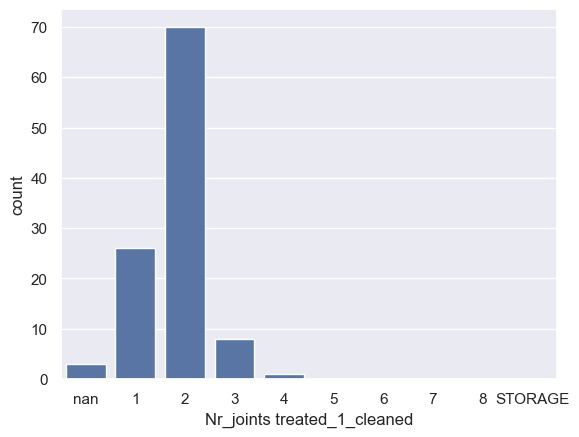
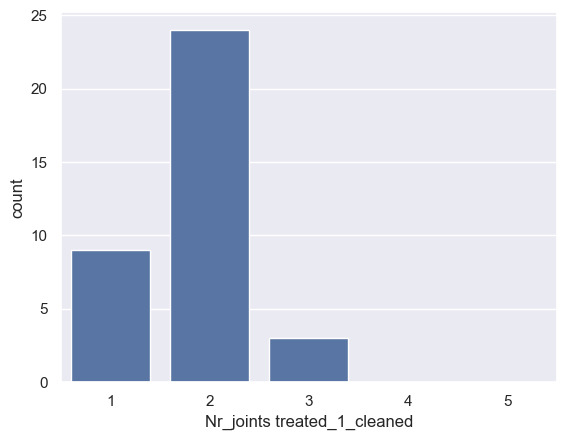
Do some fixes

diff --git a/animacel/anicura_data.html b/animacel/anicura_data.html
@@ -676,28 +676,19 @@ Figure&nbsp;7: Distribution of indications before first application
 <div class="sourceCode cell-code" id="cb19"><pre class="sourceCode python code-with-copy"><code class="sourceCode python"><span id="cb19-1"><a href="#cb19-1" aria-hidden="true" tabindex="-1"></a><span class="co">### Counts of numbers of joints treated in first tratement</span></span></code><button title="Copy to Clipboard" class="code-copy-button"><i class="bi"></i></button></pre></div>
 </details>
 </div>
-<div id="b0e92f7e-1079-445b-88d7-7ca9221d6196" class="cell" data-execution_count="17">
-<details class="code-fold">
-<summary>Code</summary>
-<div class="sourceCode cell-code" id="cb20"><pre class="sourceCode python code-with-copy"><code class="sourceCode python"><span id="cb20-1"><a href="#cb20-1" aria-hidden="true" tabindex="-1"></a>data[<span class="st">"Nr_joints treated_1_cleaned"</span>].unique()</span></code><button title="Copy to Clipboard" class="code-copy-button"><i class="bi"></i></button></pre></div>
-</details>
-<div class="cell-output cell-output-display" data-execution_count="17">
-<pre><code>array([2, nan, 1, 3, 4], dtype=object)</code></pre>
-</div>
-</div>
 <div id="5ac92fa2-0c2b-4066-831b-c2deb47b1c6b" class="cell" data-execution_count="18">
 <details class="code-fold">
 <summary>Code</summary>
-<div class="sourceCode cell-code" id="cb22"><pre class="sourceCode python code-with-copy"><code class="sourceCode python"><span id="cb22-1"><a href="#cb22-1" aria-hidden="true" tabindex="-1"></a><span class="im">import</span> seaborn <span class="im">as</span> sns</span>
-<span id="cb22-2"><a href="#cb22-2" aria-hidden="true" tabindex="-1"></a>data[<span class="st">"Nr_joints treated_1_cleaned"</span>] <span class="op">=</span> data[<span class="st">"Nr_joints treated_1_cleaned"</span>].astype(<span class="bu">str</span>)</span>
-<span id="cb22-3"><a href="#cb22-3" aria-hidden="true" tabindex="-1"></a>data[<span class="st">"Nr_joints treated_1_cleaned"</span>] <span class="op">=</span> data[<span class="st">"Nr_joints treated_1_cleaned"</span>].<span class="bu">str</span>.replace(<span class="st">"?"</span>, <span class="st">""</span>, regex<span class="op">=</span><span class="va">False</span>)</span>
-<span id="cb22-4"><a href="#cb22-4" aria-hidden="true" tabindex="-1"></a>sns.<span class="bu">set</span>(style<span class="op">=</span><span class="st">"darkgrid"</span>)</span>
-<span id="cb22-5"><a href="#cb22-5" aria-hidden="true" tabindex="-1"></a>ax <span class="op">=</span> sns.countplot(x<span class="op">=</span><span class="st">"Nr_joints treated_1_cleaned"</span>, data<span class="op">=</span>data, order<span class="op">=</span> [<span class="st">"nan"</span>,<span class="st">"1"</span>, <span class="st">"2"</span>, <span class="st">"3"</span>, <span class="st">"4"</span>, <span class="st">"5"</span>, <span class="st">"6"</span>, <span class="st">"7"</span>, <span class="st">"8"</span>, <span class="st">"STORAGE"</span>,])</span></code><button title="Copy to Clipboard" class="code-copy-button"><i class="bi"></i></button></pre></div>
+<div class="sourceCode cell-code" id="cb20"><pre class="sourceCode python code-with-copy"><code class="sourceCode python"><span id="cb20-1"><a href="#cb20-1" aria-hidden="true" tabindex="-1"></a><span class="im">import</span> seaborn <span class="im">as</span> sns</span>
+<span id="cb20-2"><a href="#cb20-2" aria-hidden="true" tabindex="-1"></a>data[<span class="st">"Nr_joints treated_1_cleaned"</span>] <span class="op">=</span> data[<span class="st">"Nr_joints treated_1_cleaned"</span>].astype(<span class="bu">str</span>)</span>
+<span id="cb20-3"><a href="#cb20-3" aria-hidden="true" tabindex="-1"></a>data[<span class="st">"Nr_joints treated_1_cleaned"</span>] <span class="op">=</span> data[<span class="st">"Nr_joints treated_1_cleaned"</span>].<span class="bu">str</span>.replace(<span class="st">"?"</span>, <span class="st">""</span>, regex<span class="op">=</span><span class="va">False</span>)</span>
+<span id="cb20-4"><a href="#cb20-4" aria-hidden="true" tabindex="-1"></a>sns.<span class="bu">set</span>(style<span class="op">=</span><span class="st">"darkgrid"</span>)</span>
+<span id="cb20-5"><a href="#cb20-5" aria-hidden="true" tabindex="-1"></a>ax <span class="op">=</span> sns.countplot(x<span class="op">=</span><span class="st">"Nr_joints treated_1_cleaned"</span>, data<span class="op">=</span>data, order<span class="op">=</span> [<span class="st">"nan"</span>,<span class="st">"1"</span>, <span class="st">"2"</span>, <span class="st">"3"</span>, <span class="st">"4"</span>, <span class="st">"5"</span>, <span class="st">"6"</span>, <span class="st">"7"</span>, <span class="st">"8"</span>, <span class="st">"STORAGE"</span>,])</span></code><button title="Copy to Clipboard" class="code-copy-button"><i class="bi"></i></button></pre></div>
 </details>
 <div class="cell-output cell-output-display">
 <div>
 <figure class="figure">
-<p><img src="anicura_data_files/figure-html/cell-19-output-1.png" class="img-fluid figure-img"></p>
+<p><img src="anicura_data_files/figure-html/cell-18-output-1.png" class="img-fluid figure-img"></p>
 </figure>
 </div>
 </div>
@@ -708,14 +699,14 @@ Figure&nbsp;7: Distribution of indications before first application
 <div id="0b49bb16-2429-4ad2-8b5d-bd307937753b" class="cell" data-execution_count="19">
 <details class="code-fold">
 <summary>Code</summary>
-<div class="sourceCode cell-code" id="cb23"><pre class="sourceCode python code-with-copy"><code class="sourceCode python"><span id="cb23-1"><a href="#cb23-1" aria-hidden="true" tabindex="-1"></a>modified<span class="op">=</span>data[<span class="op">~</span>data[<span class="st">"Nr_joints treated_2_cleaned"</span>].isnull()]</span>
-<span id="cb23-2"><a href="#cb23-2" aria-hidden="true" tabindex="-1"></a>sns.<span class="bu">set</span>(style<span class="op">=</span><span class="st">"darkgrid"</span>)</span>
-<span id="cb23-3"><a href="#cb23-3" aria-hidden="true" tabindex="-1"></a>ax <span class="op">=</span> sns.countplot(x<span class="op">=</span><span class="st">"Nr_joints treated_1_cleaned"</span>, data<span class="op">=</span>modified, order<span class="op">=</span>[<span class="st">"1"</span>, <span class="st">"2"</span>, <span class="st">"3"</span>, <span class="st">"4"</span>, <span class="st">"5"</span>])</span></code><button title="Copy to Clipboard" class="code-copy-button"><i class="bi"></i></button></pre></div>
+<div class="sourceCode cell-code" id="cb21"><pre class="sourceCode python code-with-copy"><code class="sourceCode python"><span id="cb21-1"><a href="#cb21-1" aria-hidden="true" tabindex="-1"></a>modified<span class="op">=</span>data[<span class="op">~</span>data[<span class="st">"Nr_joints treated_2_cleaned"</span>].isnull()]</span>
+<span id="cb21-2"><a href="#cb21-2" aria-hidden="true" tabindex="-1"></a>sns.<span class="bu">set</span>(style<span class="op">=</span><span class="st">"darkgrid"</span>)</span>
+<span id="cb21-3"><a href="#cb21-3" aria-hidden="true" tabindex="-1"></a>ax <span class="op">=</span> sns.countplot(x<span class="op">=</span><span class="st">"Nr_joints treated_1_cleaned"</span>, data<span class="op">=</span>modified, order<span class="op">=</span>[<span class="st">"1"</span>, <span class="st">"2"</span>, <span class="st">"3"</span>, <span class="st">"4"</span>, <span class="st">"5"</span>])</span></code><button title="Copy to Clipboard" class="code-copy-button"><i class="bi"></i></button></pre></div>
 </details>
 <div class="cell-output cell-output-display">
 <div>
 <figure class="figure">
-<p><img src="anicura_data_files/figure-html/cell-20-output-1.png" class="img-fluid figure-img"></p>
+<p><img src="anicura_data_files/figure-html/cell-19-output-1.png" class="img-fluid figure-img"></p>
 </figure>
 </div>
 </div>
@@ -726,13 +717,13 @@ Figure&nbsp;7: Distribution of indications before first application
 <div id="10049c4e-c508-42b8-a77b-ab930b765408" class="cell" data-execution_count="20">
 <details class="code-fold">
 <summary>Code</summary>
-<div class="sourceCode cell-code" id="cb24"><pre class="sourceCode python code-with-copy"><code class="sourceCode python"><span id="cb24-1"><a href="#cb24-1" aria-hidden="true" tabindex="-1"></a>sns.<span class="bu">set</span>(style<span class="op">=</span><span class="st">"darkgrid"</span>)</span>
-<span id="cb24-2"><a href="#cb24-2" aria-hidden="true" tabindex="-1"></a>ax <span class="op">=</span> sns.countplot(x<span class="op">=</span><span class="st">"Nr_joints treated_2_cleaned"</span>, data<span class="op">=</span>data, order<span class="op">=</span> [<span class="st">"1"</span>, <span class="st">"2"</span>, <span class="st">"3"</span>, <span class="st">"4"</span>])</span></code><button title="Copy to Clipboard" class="code-copy-button"><i class="bi"></i></button></pre></div>
+<div class="sourceCode cell-code" id="cb22"><pre class="sourceCode python code-with-copy"><code class="sourceCode python"><span id="cb22-1"><a href="#cb22-1" aria-hidden="true" tabindex="-1"></a>sns.<span class="bu">set</span>(style<span class="op">=</span><span class="st">"darkgrid"</span>)</span>
+<span id="cb22-2"><a href="#cb22-2" aria-hidden="true" tabindex="-1"></a>ax <span class="op">=</span> sns.countplot(x<span class="op">=</span><span class="st">"Nr_joints treated_2_cleaned"</span>, data<span class="op">=</span>data, order<span class="op">=</span> [<span class="st">"1"</span>, <span class="st">"2"</span>, <span class="st">"3"</span>, <span class="st">"4"</span>])</span></code><button title="Copy to Clipboard" class="code-copy-button"><i class="bi"></i></button></pre></div>
 </details>
 <div class="cell-output cell-output-display">
 <div>
 <figure class="figure">
-<p><img src="anicura_data_files/figure-html/cell-21-output-1.png" class="img-fluid figure-img"></p>
+<p><img src="anicura_data_files/figure-html/cell-20-output-1.png" class="img-fluid figure-img"></p>
 </figure>
 </div>
 </div>
@@ -740,15 +731,15 @@ Figure&nbsp;7: Distribution of indications before first application
 <div id="8e84e783-22a8-4460-ae17-694adce5208f" class="cell" data-execution_count="21">
 <details class="code-fold">
 <summary>Code</summary>
-<div class="sourceCode cell-code" id="cb25"><pre class="sourceCode python code-with-copy"><code class="sourceCode python"><span id="cb25-1"><a href="#cb25-1" aria-hidden="true" tabindex="-1"></a>data[<span class="st">"first_to_second_treatment"</span>] <span class="op">=</span> modified[<span class="st">"Nr_joints treated_1_cleaned"</span>]<span class="op">+</span> <span class="st">"-&gt;"</span> <span class="op">+</span> modified[<span class="st">"Nr_joints treated_2_cleaned"</span>].astype(<span class="bu">str</span>)</span>
-<span id="cb25-2"><a href="#cb25-2" aria-hidden="true" tabindex="-1"></a>sns.<span class="bu">set</span>(style<span class="op">=</span><span class="st">"darkgrid"</span>)</span>
-<span id="cb25-3"><a href="#cb25-3" aria-hidden="true" tabindex="-1"></a>ax <span class="op">=</span> sns.countplot(x<span class="op">=</span><span class="st">"first_to_second_treatment"</span>, data<span class="op">=</span>data, order <span class="op">=</span> data[<span class="st">"first_to_second_treatment"</span>].value_counts().index)</span>
-<span id="cb25-4"><a href="#cb25-4" aria-hidden="true" tabindex="-1"></a>ax.tick_params(axis<span class="op">=</span><span class="st">'x'</span>, rotation<span class="op">=</span><span class="dv">45</span>)</span></code><button title="Copy to Clipboard" class="code-copy-button"><i class="bi"></i></button></pre></div>
+<div class="sourceCode cell-code" id="cb23"><pre class="sourceCode python code-with-copy"><code class="sourceCode python"><span id="cb23-1"><a href="#cb23-1" aria-hidden="true" tabindex="-1"></a>data[<span class="st">"first_to_second_treatment"</span>] <span class="op">=</span> modified[<span class="st">"Nr_joints treated_1_cleaned"</span>]<span class="op">+</span> <span class="st">"-&gt;"</span> <span class="op">+</span> modified[<span class="st">"Nr_joints treated_2_cleaned"</span>].astype(<span class="bu">str</span>)</span>
+<span id="cb23-2"><a href="#cb23-2" aria-hidden="true" tabindex="-1"></a>sns.<span class="bu">set</span>(style<span class="op">=</span><span class="st">"darkgrid"</span>)</span>
+<span id="cb23-3"><a href="#cb23-3" aria-hidden="true" tabindex="-1"></a>ax <span class="op">=</span> sns.countplot(x<span class="op">=</span><span class="st">"first_to_second_treatment"</span>, data<span class="op">=</span>data, order <span class="op">=</span> data[<span class="st">"first_to_second_treatment"</span>].value_counts().index)</span>
+<span id="cb23-4"><a href="#cb23-4" aria-hidden="true" tabindex="-1"></a>ax.tick_params(axis<span class="op">=</span><span class="st">'x'</span>, rotation<span class="op">=</span><span class="dv">45</span>)</span></code><button title="Copy to Clipboard" class="code-copy-button"><i class="bi"></i></button></pre></div>
 </details>
 <div class="cell-output cell-output-display">
 <div>
 <figure class="figure">
-<p><img src="anicura_data_files/figure-html/cell-22-output-1.png" class="img-fluid figure-img"></p>
+<p><img src="anicura_data_files/figure-html/cell-21-output-1.png" class="img-fluid figure-img"></p>
 </figure>
 </div>
 </div>
